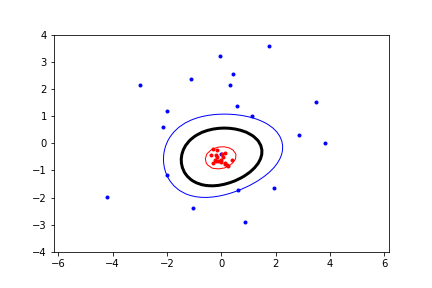
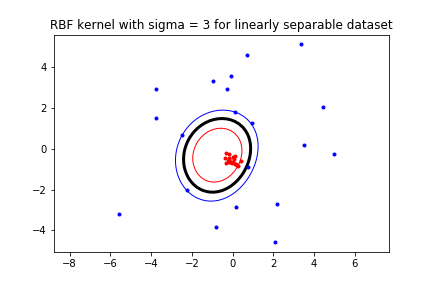
Solution to assignments

diff --git a/Support Vector Machine/SVM.py b/Support Vector Machine/SVM.py
@@ -10,10 +10,11 @@ N = data.N
 plt.plot([p[0] for p in data.classA], [p[1] for p in data.classA], 'b.')
 plt.plot([p[0] for p in data.classB], [p[1] for p in data.classB], 'r.')
 plt.axis("equal") 
+
 # From the file Kernel import wanted kernel:
 # in_ker, pol_ker or RBF_ker,
 # see explanation in Kernel.py
-kernel = Kernels.lin_ker
+kernel = Kernels.RBF_ker
 
 """
     Define a function which implements equation (4).
@@ -124,6 +125,7 @@ grid = np.array([[ind(x, y,b) for x in xgrid ] for y in ygrid])
 plt.contour (xgrid , ygrid , grid , (-1.0, 0.0, 1.0),
 colors=('red', 'black', 'blue'), linewidths=(1, 3, 1))
 
+plt.title(("RBF kernel with sigma = 3 for linearly separable dataset"))
 
         
         

diff --git a/Support Vector Machine/data.py b/Support Vector Machine/data.py
@@ -32,8 +32,8 @@ import matplotlib.pyplot as plt
 np.random.seed(100) #same values each iteration
 cluster = 0.2
 classA = np.concatenate ( 
-        (np.random.randn(10, 2) * 0.01 + [1.5, 0.5],
-         np.random.randn(10, 2) * 0.01+ [-1.5, 0.5])) 
+        (np.random.randn(10, 2) * 3 + [1.5, 0.5],
+         np.random.randn(10, 2) * 3+ [-1.5, 0.5])) 
 
 classB = np.random.randn(20, 2) * cluster + [0.0 , -0.5]
 

diff --git a/Support Vector Machine/Kernels.py b/Support Vector Machine/Kernels.py
@@ -13,7 +13,7 @@ def pol_ker(i,j):
     return pol_ker
 
 def RBF_ker(i,j):
-    sigma = 2
+    sigma = 3
     RBF_don = 2*pow(sigma,2)
     RBF_ker = pow(np.e,-pow(np.linalg.norm(i-j),2)/RBF_don) #Radial Basis Function kernel
     return RBF_ker
